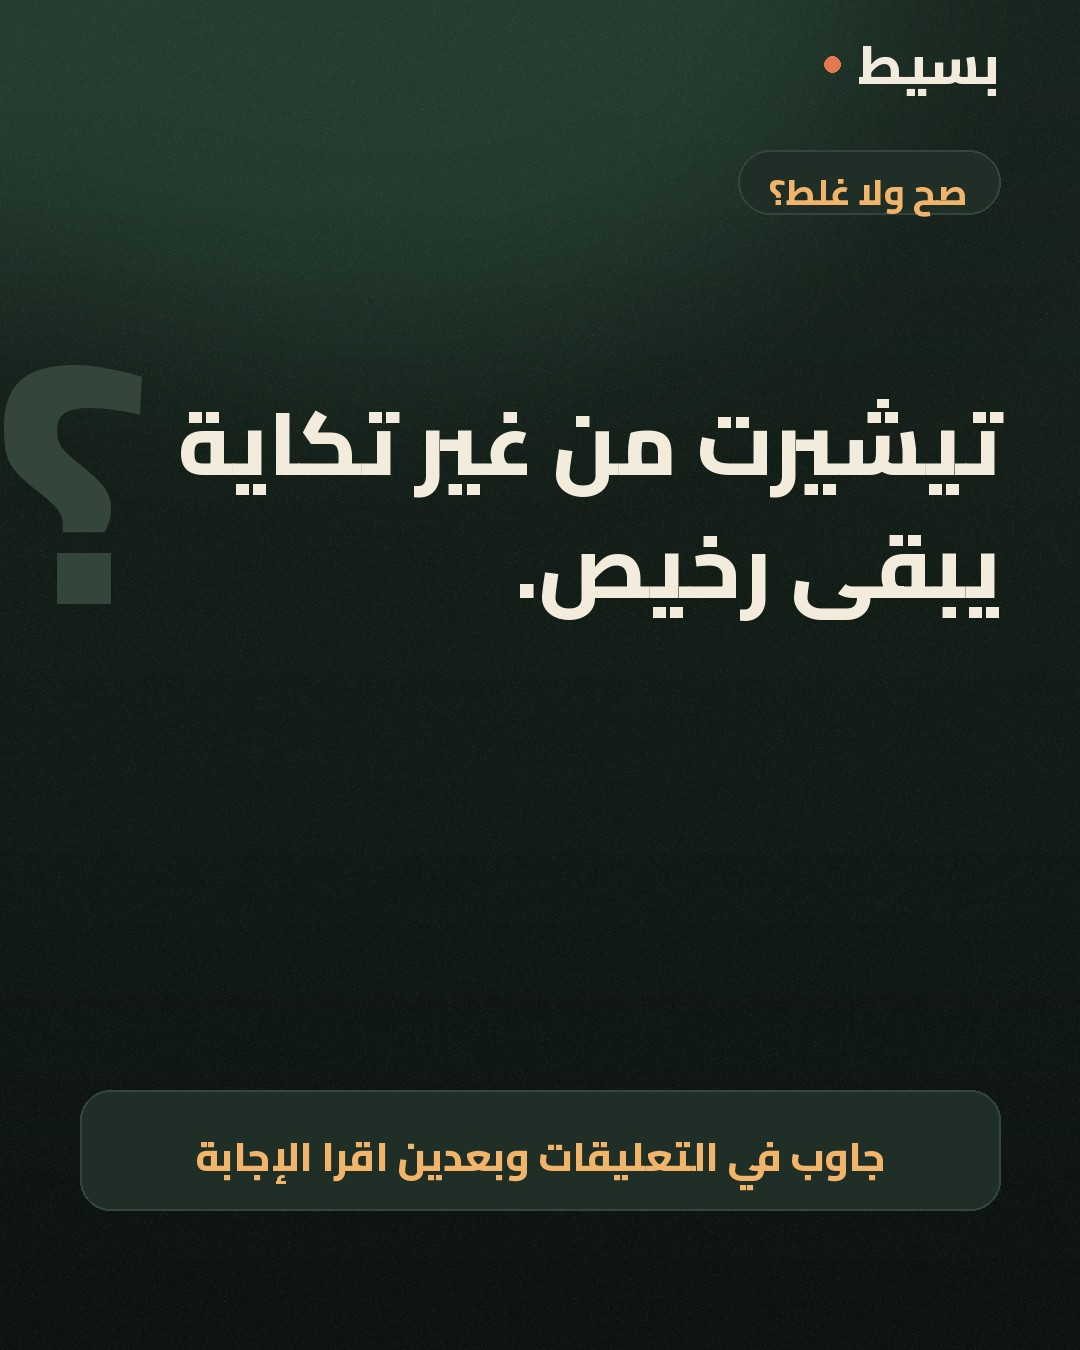
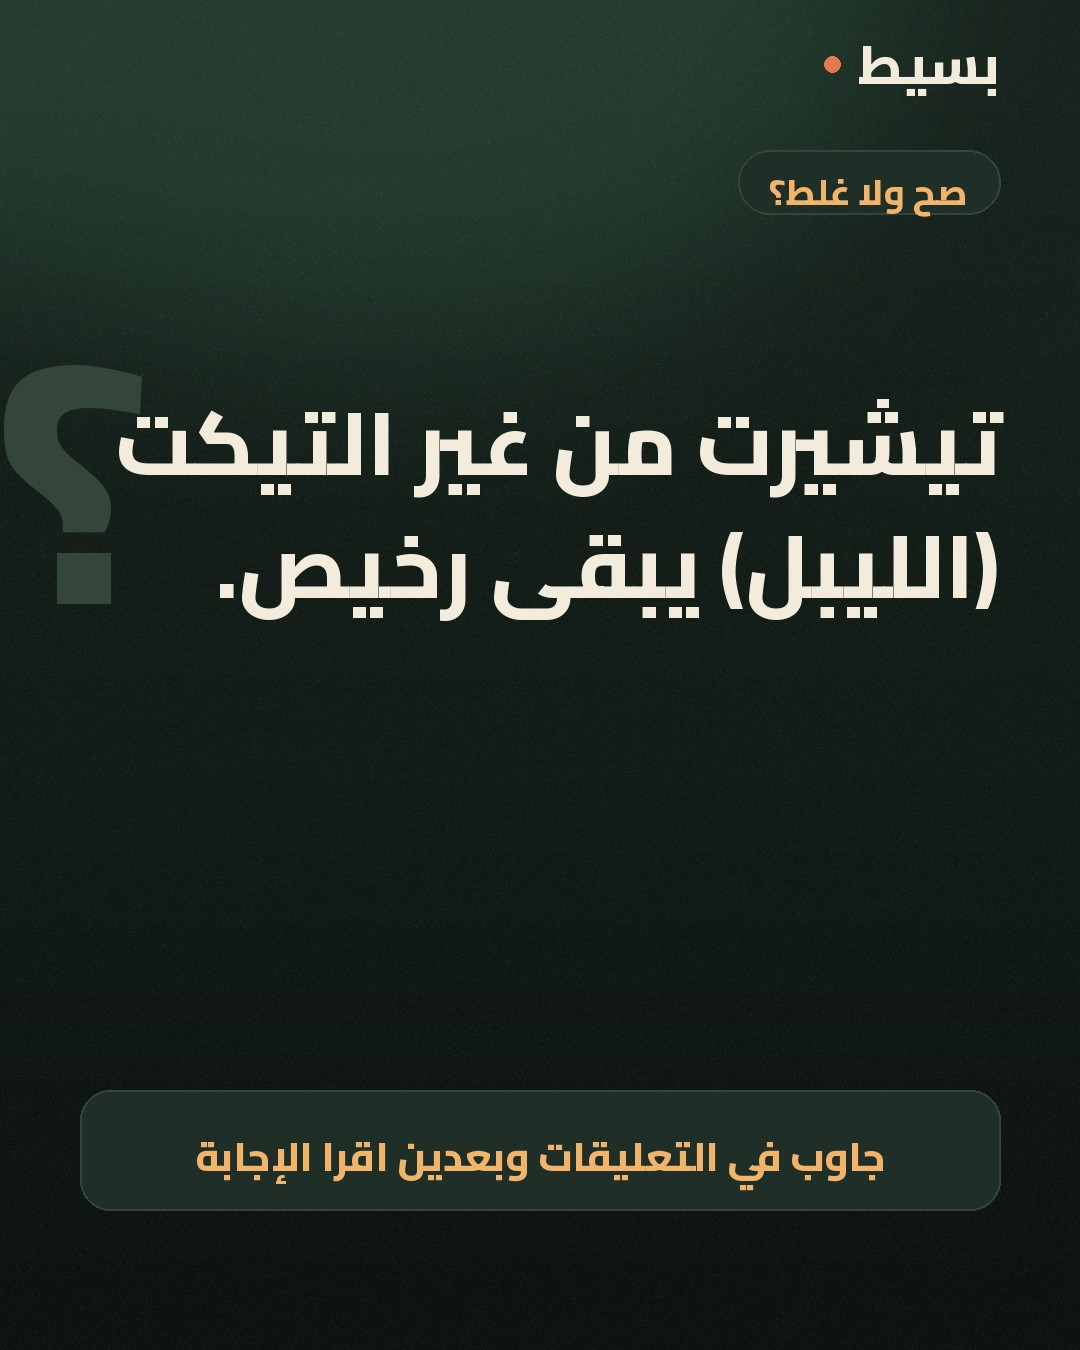
Use التيكت (الليبل) instead of تكاية
Claude-Session: https://claude.ai/code/session_01DVSa8HmepnLsgKu6jsXMHW

Changed region(s): [[0.4583, 0.3733, 0.9167, 0.4667], [0.0917, 0.28, 0.3667, 0.3733], [0.2139, 0.3733, 0.4278, 0.4667]]

diff --git a/content/nov_v2b.py b/content/nov_v2b.py
@@ -68,8 +68,8 @@ day("2026-11-17",
 day("2026-11-18",
     dict(tip="متشدّش ياقة التيشيرت وانت بتلبسه. هتتمدد مع الوقت.", icon="collar_bad",
          cap="☀ نصيحة الصبح: البس التيشيرت بالراحة، متشدّش الياقة. الشد المتكرر بيمدّدها."),
-    dict(kind="myth", statement="تيشيرت من غير تكاية يبقى رخيص.",
-         answer="الإجابة: مش بالضرورة. بس غياب التكاية معناه معلومات أقل عن الخامة والغسيل، فاسأل البراند.",
+    dict(kind="myth", statement="تيشيرت من غير التيكت (الليبل) يبقى رخيص.",
+         answer="الإجابة: مش بالضرورة. بس غياب التيكت (الليبل) معناه معلومات أقل عن الخامة والغسيل، فاسأل البراند.",
          cap="صح ولا غلط؟ جاوب في التعليقات الأول. 👇"),
     dict(series="جرّب في 30 ثانية", scenes=[
         S("hook", main="الطباعة بتتحرك مع القماش؟", sub="جرّب الاختبار ده", icon="tee"),

diff --git a/tools/mg.py b/tools/mg.py
@@ -390,7 +390,7 @@ def washer_scene(t):
     return st, out, temp
 
 
-SCR = ["بتغسل تيشيرتك على 90 درجة؟", "المية السخنة بتصغّر القطن", "30 درجة تكفي وزيادة", "اقرا التكاية قبل ما تغسل"]
+SCR = ["بتغسل تيشيرتك على 90 درجة؟", "المية السخنة بتصغّر القطن", "30 درجة تكفي وزيادة", "اقرا التيكت (الليبل) اللي جوه التيشيرت"]
 
 
 def frame(t):
